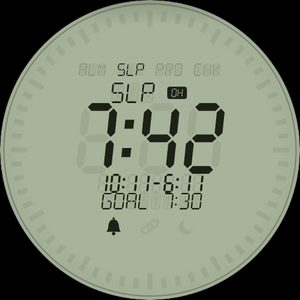
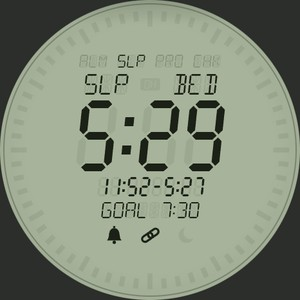
Watch faces: a gap between each mode's rows
The label, big digits and lines below sat flush against each other, so
AL1 AM and IN 23:16 touched the 5:30. Slots now spaces its rows by 0.02
of the diameter; tabs and icons stay inside the tick ring on the 2R.
Refresh the ALM, SLP, PRO, CHK and glow screenshots.

diff --git a/app-wear/src/main/kotlin/com/trepidity/good/wear/ui/WatchLcd.kt b/app-wear/src/main/kotlin/com/trepidity/good/wear/ui/WatchLcd.kt
@@ -41,6 +41,9 @@ private const val LINE = 0.064f
 private const val SMALL = 0.054f
 private const val ICON = 0.07f
 
+/** Air between a mode's rows, so the label and the lines below don't touch the big digits. */
+private const val ROW_GAP = 0.02f
+
 /** Top band of the face: a tap there is the LIGHT button (GLOW), not ▲. */
 const val TAB_BAND = 0.27f
 
@@ -93,7 +96,7 @@ fun Slots(
     line: @Composable RowScope.(Dp) -> Unit,
     small: @Composable RowScope.(Dp) -> Unit,
 ) {
-    Column(horizontalAlignment = Alignment.CenterHorizontally) {
+    Column(horizontalAlignment = Alignment.CenterHorizontally, verticalArrangement = Arrangement.spacedBy(s * ROW_GAP)) {
         SlotRow(s, TITLE, title)
         SlotRow(s, BIG, big)
         SlotRow(s, LINE, line)

diff --git a/README.md b/README.md
@@ -63,7 +63,7 @@ Real screenshots of the built app on emulators (Android 16 phone, Wear OS 5 roun
 <table>
 <tr>
 <td><img src="docs/screenshots/watch/01-alm.jpg" width="150" alt="Watch ALM"></td>
-<td><img src="docs/screenshots/watch/02-slp.jpg" width="150" alt="Watch SLP, 7:42 from OHealth"></td>
+<td><img src="docs/screenshots/watch/02-slp.jpg" width="150" alt="Watch SLP, last night 11:52–5:27"></td>
 <td><img src="docs/screenshots/watch/03-pro.jpg" width="150" alt="Watch PRO"></td>
 <td><img src="docs/screenshots/watch/04-pro-int1.jpg" width="150" alt="Watch PRO, INT 1 light 10:00"></td>
 </tr>
